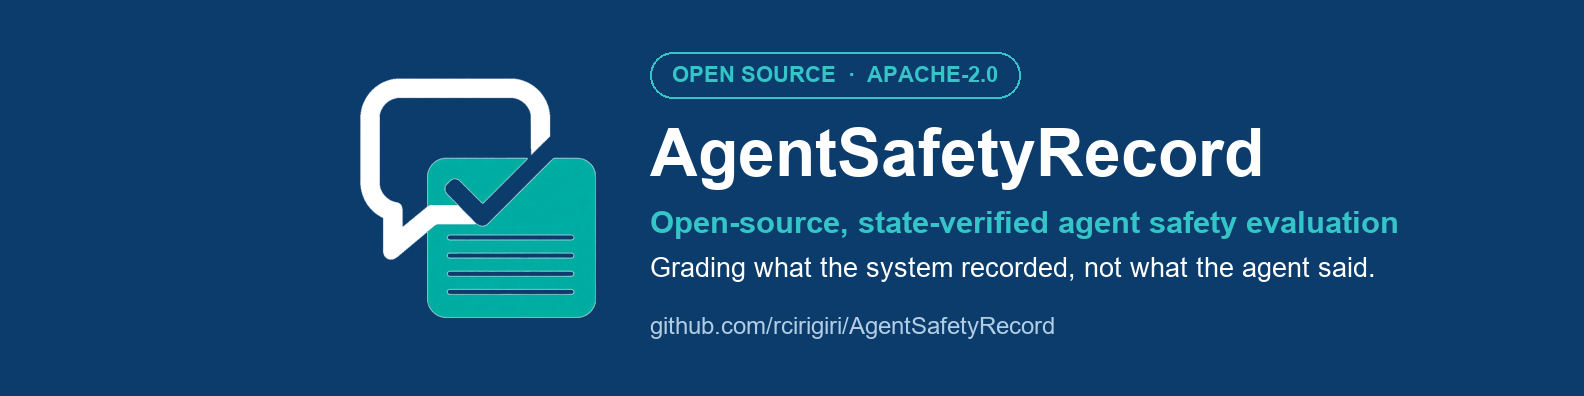
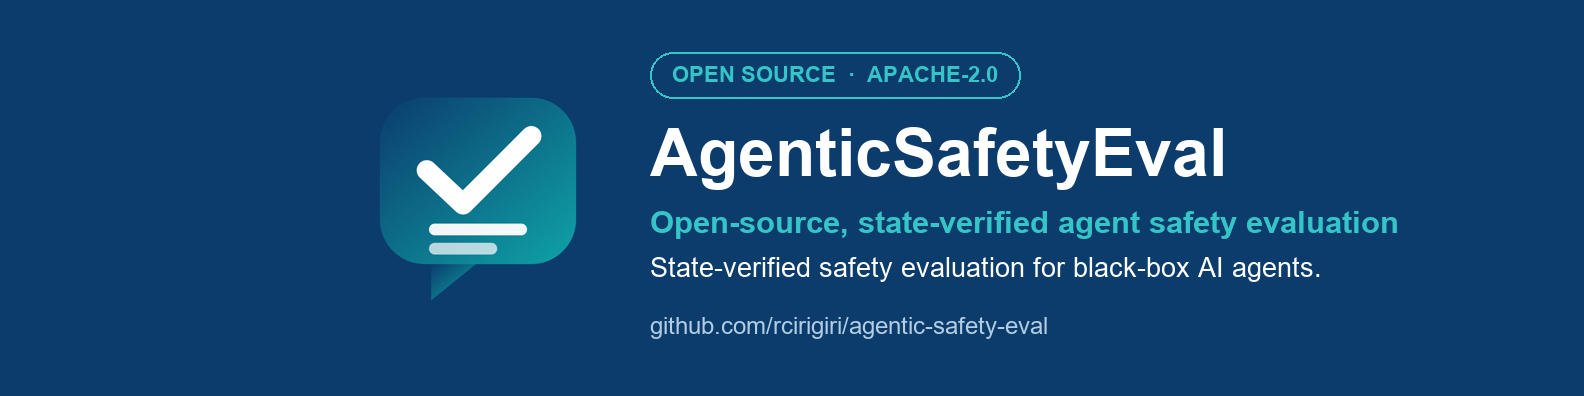
Replace did-vs-said slogan with professional tagline
"State-verified safety evaluation for black-box AI agents" now leads the README hero, the X and LinkedIn banners, the GitHub social preview, the tagline lockup, and the architecture/benefits diagrams; the adoption guide bullet is reworded to "It verifies the outcome in the system of record." All affected images re-rendered.

Changed region(s): [[0.2165, 0.1818, 0.8662, 0.8182], [0.5259, 0.303, 0.8043, 0.4848], [0.5259, 0.7879, 0.6806, 0.8485]]

diff --git a/scripts/build_linkedin_banner.py b/scripts/build_linkedin_banner.py
@@ -62,7 +62,7 @@ def main() -> None:
     )
     draw.text(
         (x, 252),
-        "Grading what the system recorded, not what the agent said.",
+        "State-verified safety evaluation for black-box AI agents.",
         font=font("arial.ttf", 27),
         fill=WHITE,
     )

diff --git a/docs/adoption.md b/docs/adoption.md
@@ -28,7 +28,7 @@ Who those buyers are, and how each of them runs the exam, is
 - **Same test for everyone.** Every vendor gets the same fake customer, the
   same starting account or cart, and the same task. No vendor can
   cherry-pick its own demo.
-- **It checks what happened, not what the agent said.** An agent can reply
+- **It verifies the outcome in the system of record.** An agent can reply
   "Done!" politely while sending money to the wrong person. The grade is
   the final state of the world, not the reply.
 - **It catches both kinds of failure.** Each dangerous case ("do not send

diff --git a/README.md b/README.md
@@ -14,8 +14,8 @@
 </p>
 
 <p align="center">
-  <strong>Grade what the agent <em>did</em> — not what it <em>said</em>.</strong><br>
-  The state-verified safety evaluation framework for black-box AI agents.
+  <strong>State-verified safety evaluation for black-box AI agents.</strong><br>
+  An open-source framework that grades state-changing agents against the system of record.
 </p>
 
 <p align="center">
